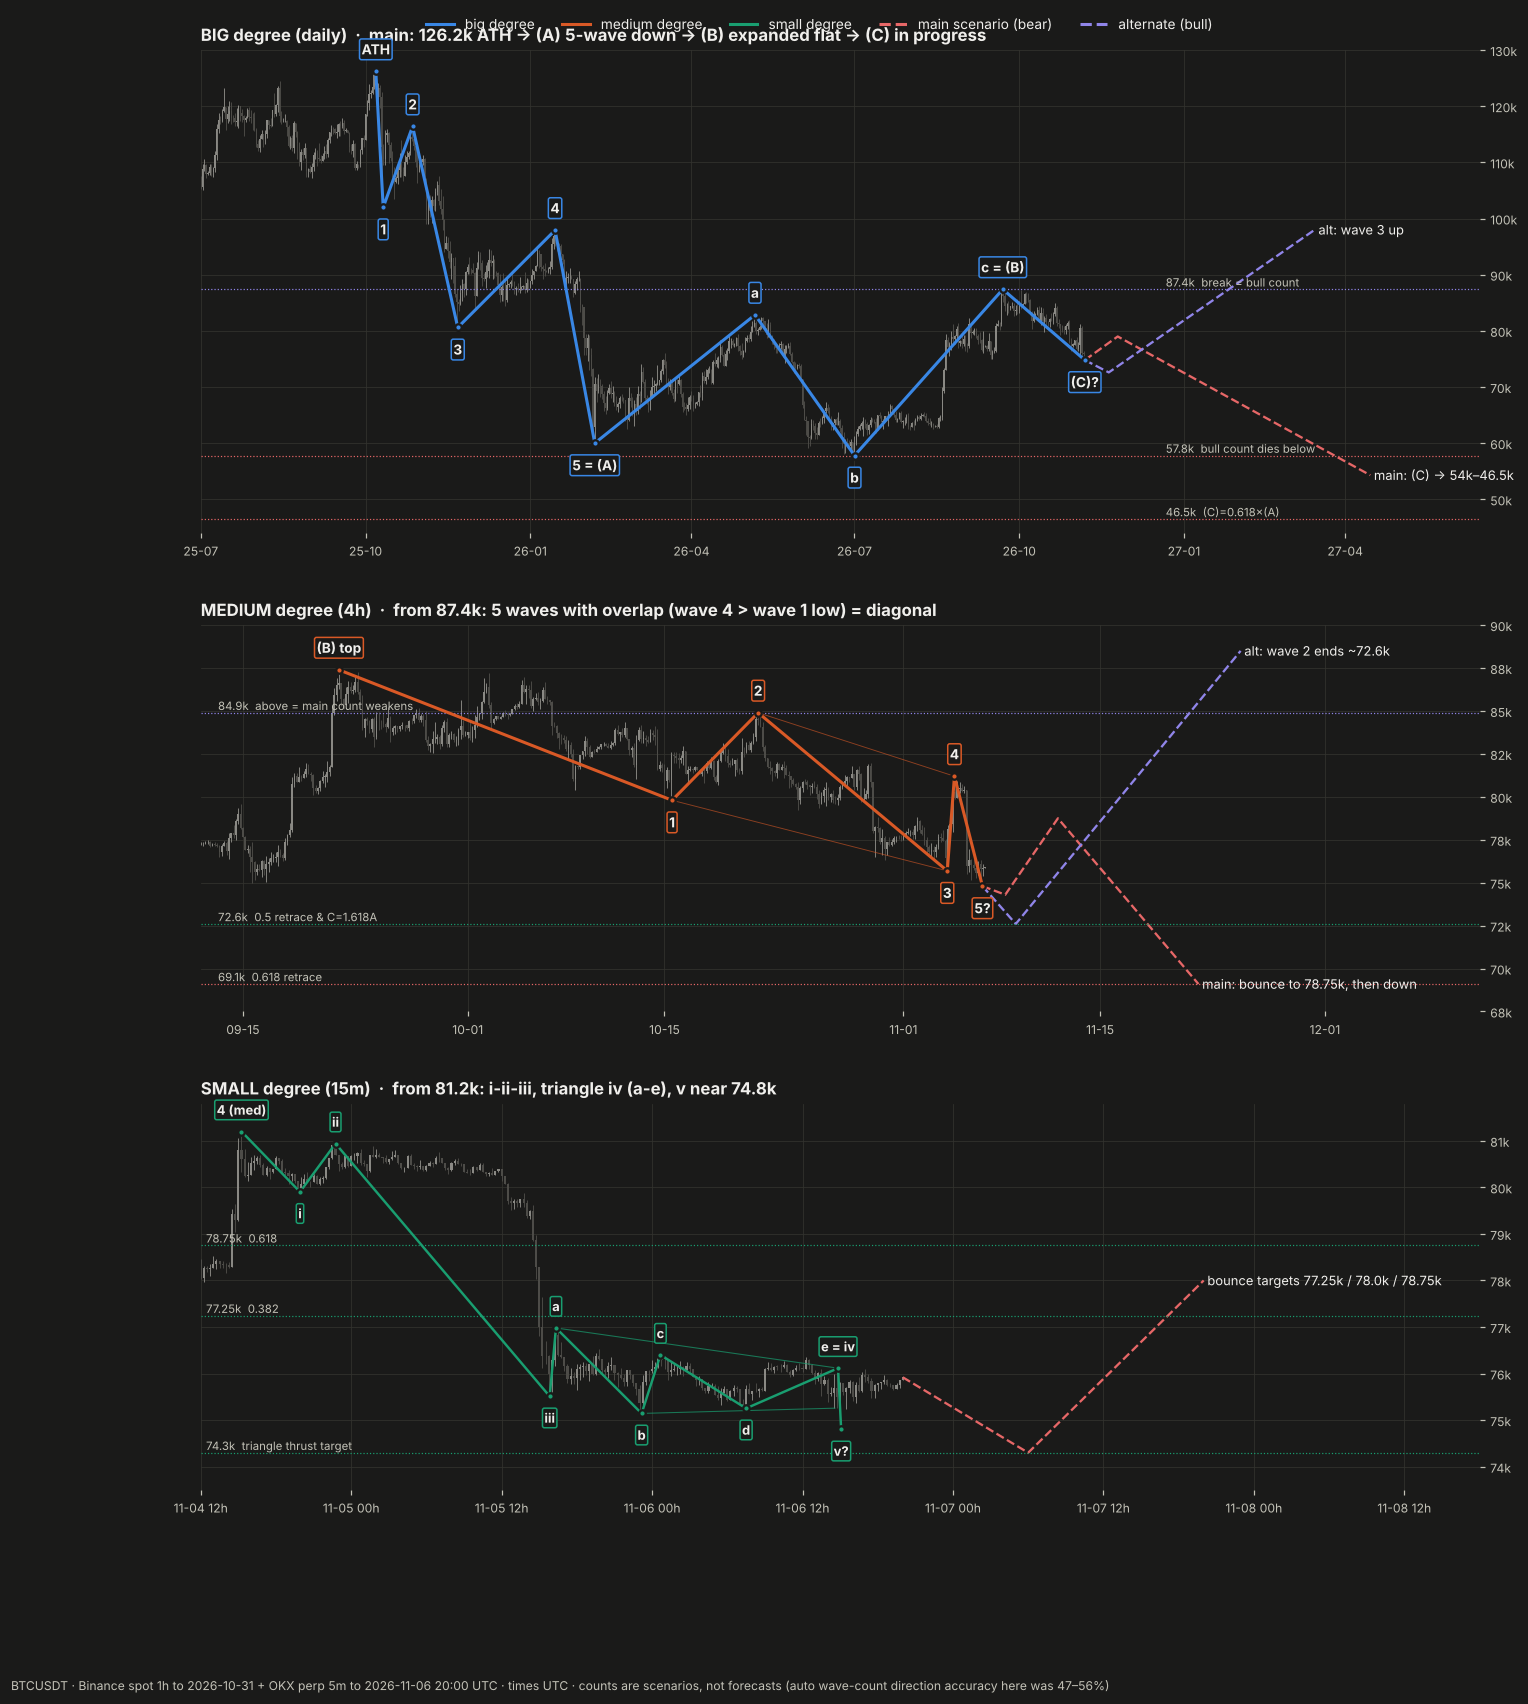
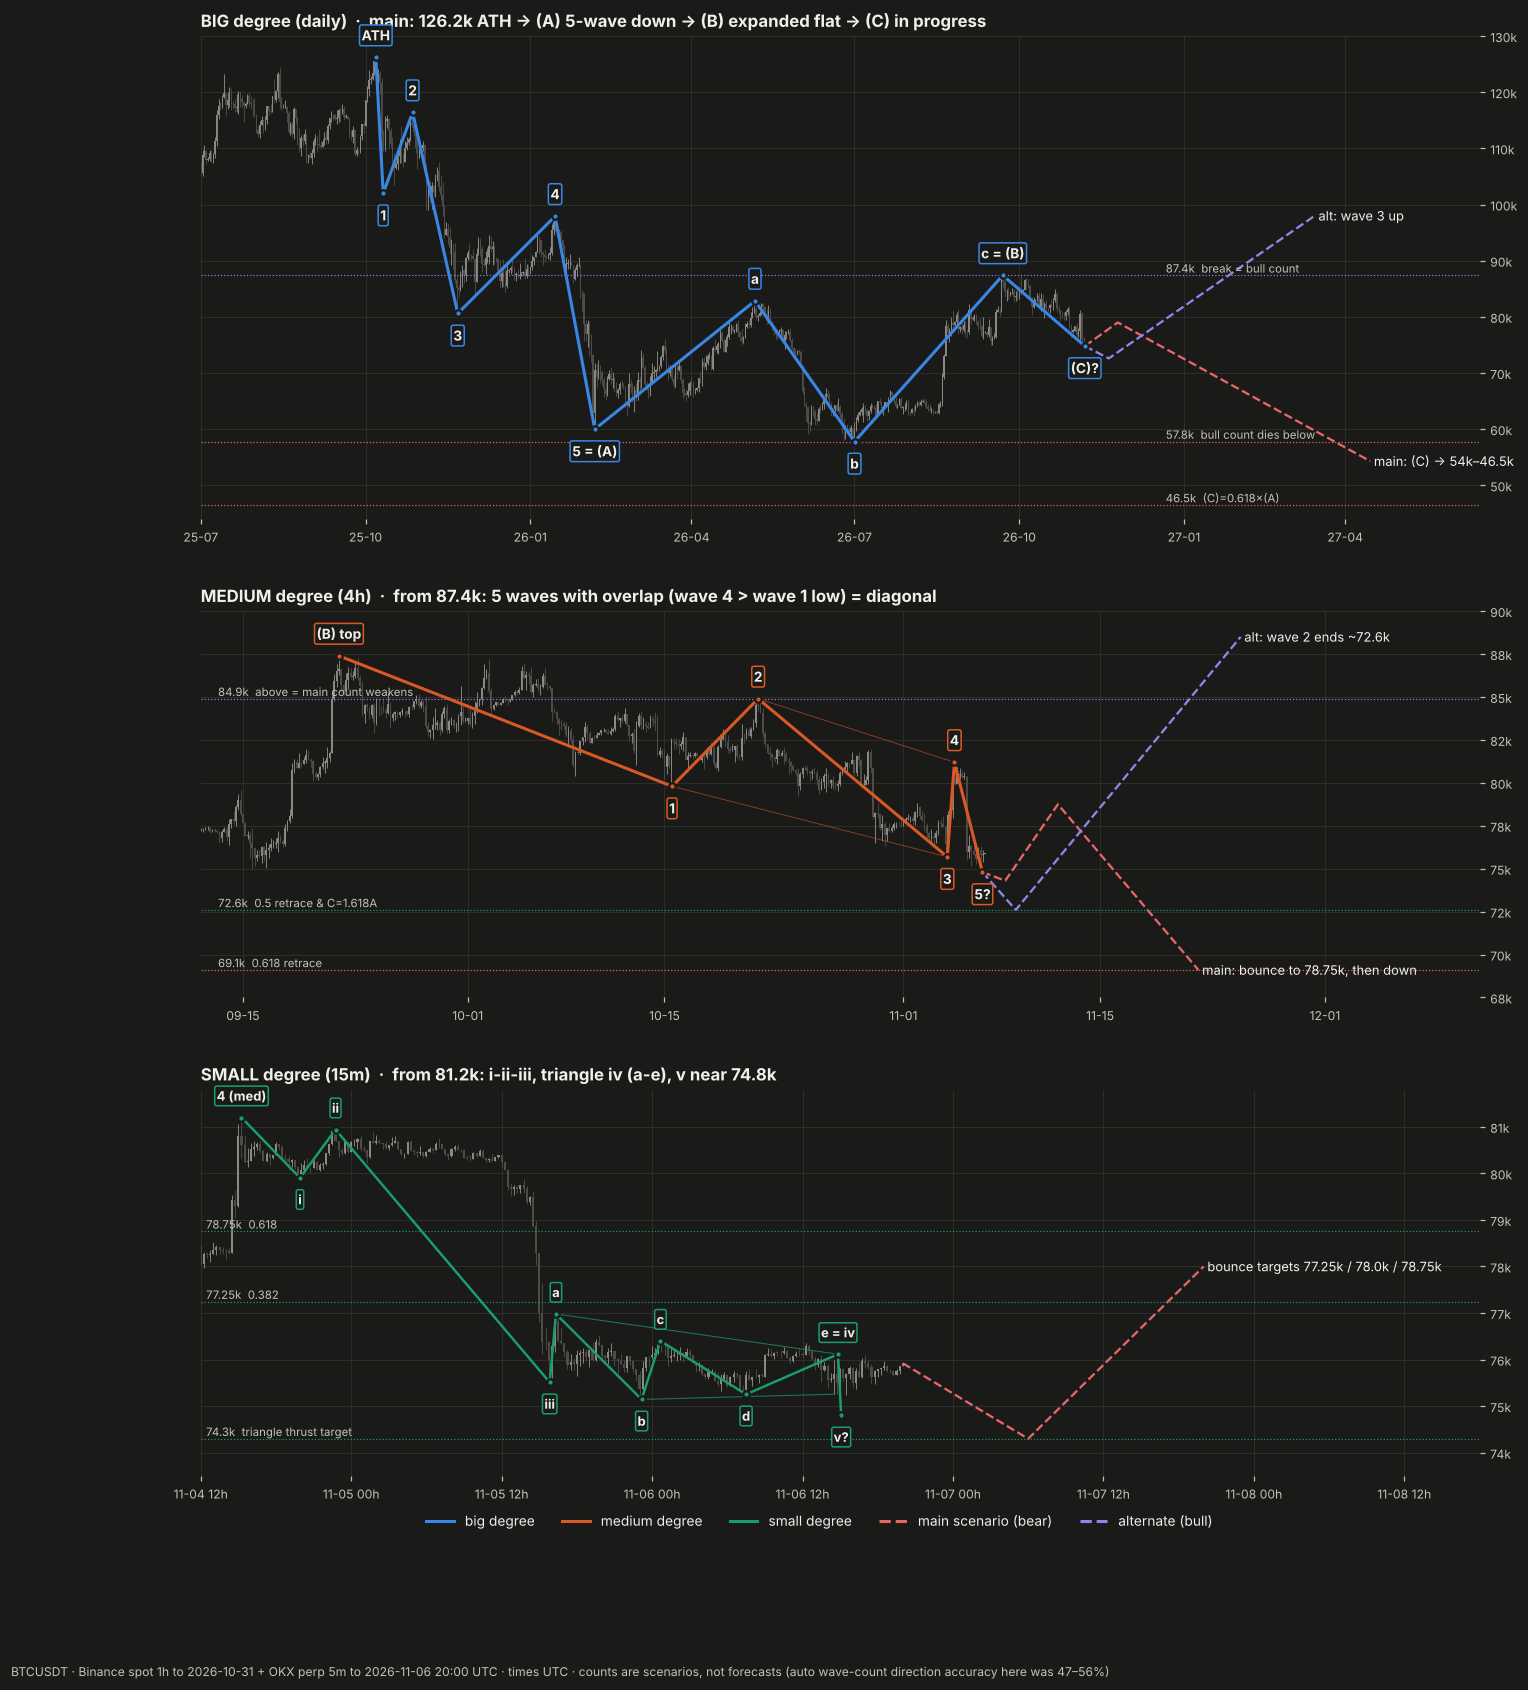
Draw the Elliott count chart (big/medium/small degree with scenarios)
Claude-Session: https://claude.ai/code/session_01Lbsj28dtmDYVLixsCa3L6B

diff --git a/ew/draw_count.py b/ew/draw_count.py
@@ -100,7 +100,7 @@ ax.xaxis.set_major_formatter(mdates.DateFormatter('%m-%d %Hh'))
 
 handles = [plt.Line2D([], [], color=c, lw=2, ls=ls) for c, ls in [(BIG, '-'), (MED, '-'), (SMALL, '-'), (BEAR, '--'), (BULL, '--')]]
 fig.legend(handles, ['big degree', 'medium degree', 'small degree', 'main scenario (bear)', 'alternate (bull)'],
-           loc='upper center', ncol=5, frameon=False, labelcolor=INK, fontsize=9, bbox_to_anchor=(0.5, 0.905))
+           loc='lower center', ncol=5, frameon=False, labelcolor=INK, fontsize=9, bbox_to_anchor=(0.5, 0.075))
 fig.text(0.01, 0.003, 'BTCUSDT · Binance spot 1h to 2026-10-31 + OKX perp 5m to 2026-11-06 20:00 UTC · times UTC · '
          'counts are scenarios, not forecasts (auto wave-count direction accuracy here was 47–56%)', color=INK2, fontsize=8)
 fig.savefig('logs/ew_count_now.png', dpi=110, facecolor=SURF, bbox_inches='tight')
